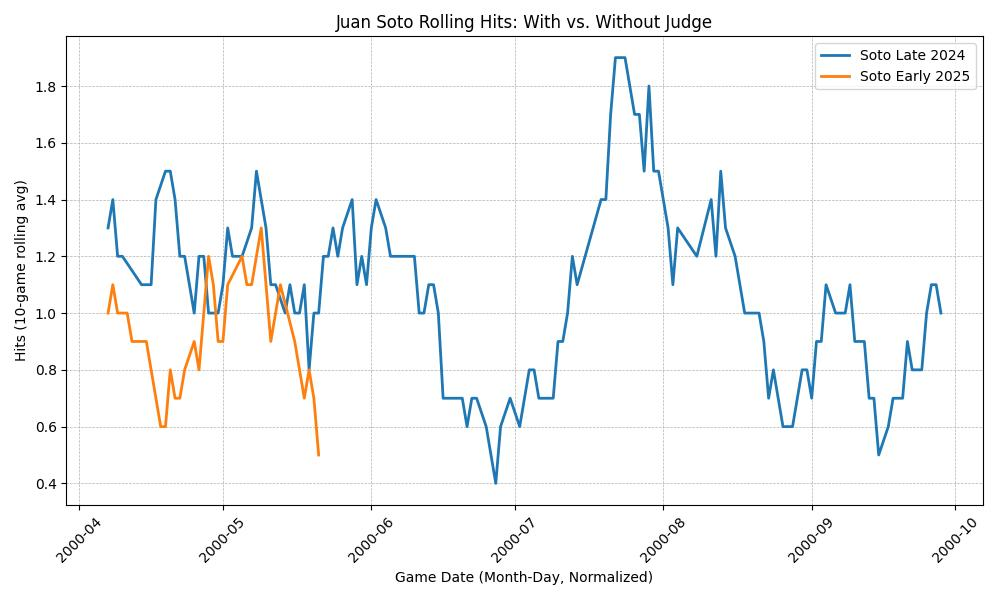
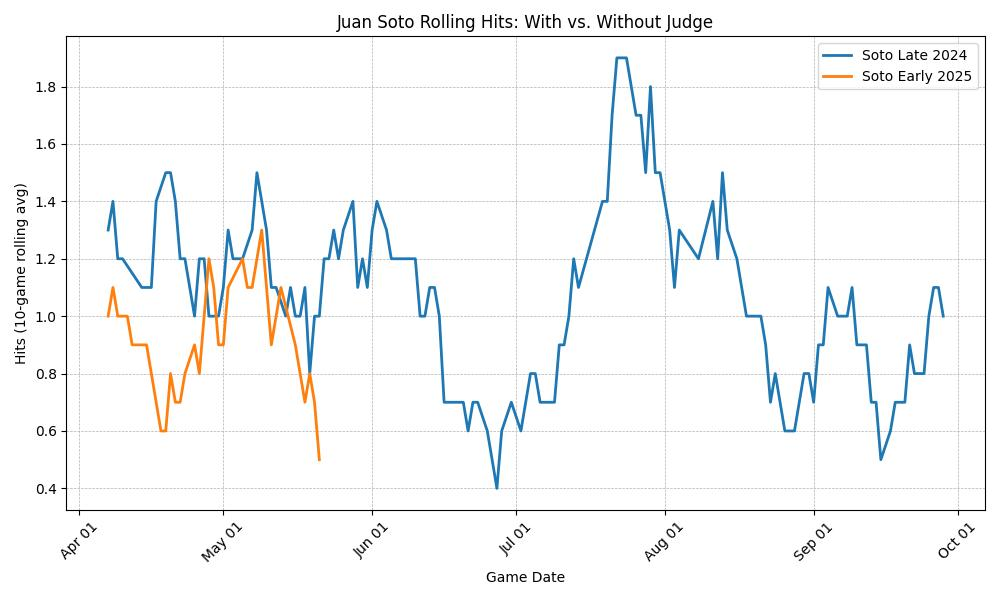
soto update image

diff --git a/assets/html/mock-presentation.html b/assets/html/mock-presentation.html
@@ -49,7 +49,7 @@
 
   <main id="content">
     <h1>Jonathan Gasaatura</h1>
-    <p><strong>Role:</strong> High School Analyst Intern, Ukubona LLC</p>
+    <p><strong>Role:</strong> Oakton High School Analyst Intern, Ukubona LLC</p>
     <p><strong>Project:</strong> Juan Soto's Batting Trends with and without Lineup Protection by Aaron Judge (Yankees, 2024–2025)</p>
 
     <section>
@@ -84,23 +84,50 @@
       <h2>💻 Code</h2>
       <div class="code-block">
 <pre>
-from pybaseball import statcast_batter
 import pandas as pd
 import matplotlib.pyplot as plt
+import matplotlib.dates as mdates
 
-soto_id = 665742
-soto_2024 = statcast_batter("2024-08-01", "2024-09-30", soto_id)
-soto_2025 = statcast_batter("2025-03-28", "2025-05-22", soto_id)
+# Load data
+soto_2024 = pd.read_csv("../data/soto-2024.csv")
+soto_2025 = pd.read_csv("../data/soto-2025.csv")
 
-soto_2024['season'] = '2024'
-soto_2025['season'] = '2025'
-combined = pd.concat([soto_2024, soto_2025])
+# Convert 'Date' column to datetime
+soto_2024["Date"] = pd.to_datetime(soto_2024["Date"], errors="coerce")
+soto_2025["Date"] = pd.to_datetime(soto_2025["Date"], errors="coerce")
 
-# Plotting xwOBA trend
-combined.groupby('season')['launch_speed'].mean().plot(kind='bar', title='Avg Exit Velocity')
-plt.ylabel('MPH')
-plt.grid(True)
-plt.show()
+# Normalize both to the same year (e.g., 2000) to overlay dates without parallax
+soto_2024["PlotDate"] = soto_2024["Date"].apply(lambda d: d.replace(year=2000) if pd.notnull(d) else pd.NaT)
+soto_2025["PlotDate"] = soto_2025["Date"].apply(lambda d: d.replace(year=2000) if pd.notnull(d) else pd.NaT)
+
+# Sort by normalized date
+soto_2024 = soto_2024.sort_values("PlotDate")
+soto_2025 = soto_2025.sort_values("PlotDate")
+
+# Calculate rolling hits (10-game average)
+soto_2024["rolling_avg"] = soto_2024["H"].rolling(10).mean()
+soto_2025["rolling_avg"] = soto_2025["H"].rolling(10).mean()
+
+# Plot
+plt.figure(figsize=(10, 6))
+plt.plot(soto_2024["PlotDate"], soto_2024["rolling_avg"], label="Soto Late 2024", linewidth=2)
+plt.plot(soto_2025["PlotDate"], soto_2025["rolling_avg"], label="Soto Early 2025", linewidth=2)
+
+# Format x-axis to show only Month-Day
+plt.gca().xaxis.set_major_formatter(mdates.DateFormatter('%b %d'))
+
+# Enhancements
+plt.title("Juan Soto Rolling Hits: With vs. Without Judge")
+plt.xlabel("Game Date")
+plt.ylabel("Hits (10-game rolling avg)")
+plt.legend()
+plt.xticks(rotation=45)
+plt.grid(True, which='major', linestyle='--', linewidth=0.5)
+plt.tight_layout()
+
+# Save the figure
+plt.savefig("../images/soto-judge-effect.jpeg")
+
 </pre>
       </div>
     </section>
@@ -116,7 +143,7 @@ plt.show()
 
 <section>
   <h2>📸 Output</h2>
-  <img src="./soto-judge-comparison.png" alt="Juan Soto Performance With vs Without Judge"
+  <img src="../images/soto-judge-effect.jpeg" alt="Juan Soto Performance With vs Without Judge"
        style="width: 90%; border-radius: 10px; box-shadow: 0 0 10px rgba(0,0,0,0.1); display: block; margin: 1.5em auto;" />
   <p class="caption">Figure 1. Decline in exit velocity and zone % in early 2025 after Judge’s injury.</p>
       <p>

diff --git a/assets/python/soto-analysis.py b/assets/python/soto-analysis.py
@@ -1,5 +1,6 @@
 import pandas as pd
 import matplotlib.pyplot as plt
+import matplotlib.dates as mdates
 
 # Load data
 soto_2024 = pd.read_csv("../data/soto-2024.csv")
@@ -26,9 +27,12 @@ plt.figure(figsize=(10, 6))
 plt.plot(soto_2024["PlotDate"], soto_2024["rolling_avg"], label="Soto Late 2024", linewidth=2)
 plt.plot(soto_2025["PlotDate"], soto_2025["rolling_avg"], label="Soto Early 2025", linewidth=2)
 
+# Format x-axis to show only Month-Day
+plt.gca().xaxis.set_major_formatter(mdates.DateFormatter('%b %d'))
+
 # Enhancements
 plt.title("Juan Soto Rolling Hits: With vs. Without Judge")
-plt.xlabel("Game Date (Month-Day, Normalized)")
+plt.xlabel("Game Date")
 plt.ylabel("Hits (10-game rolling avg)")
 plt.legend()
 plt.xticks(rotation=45)
